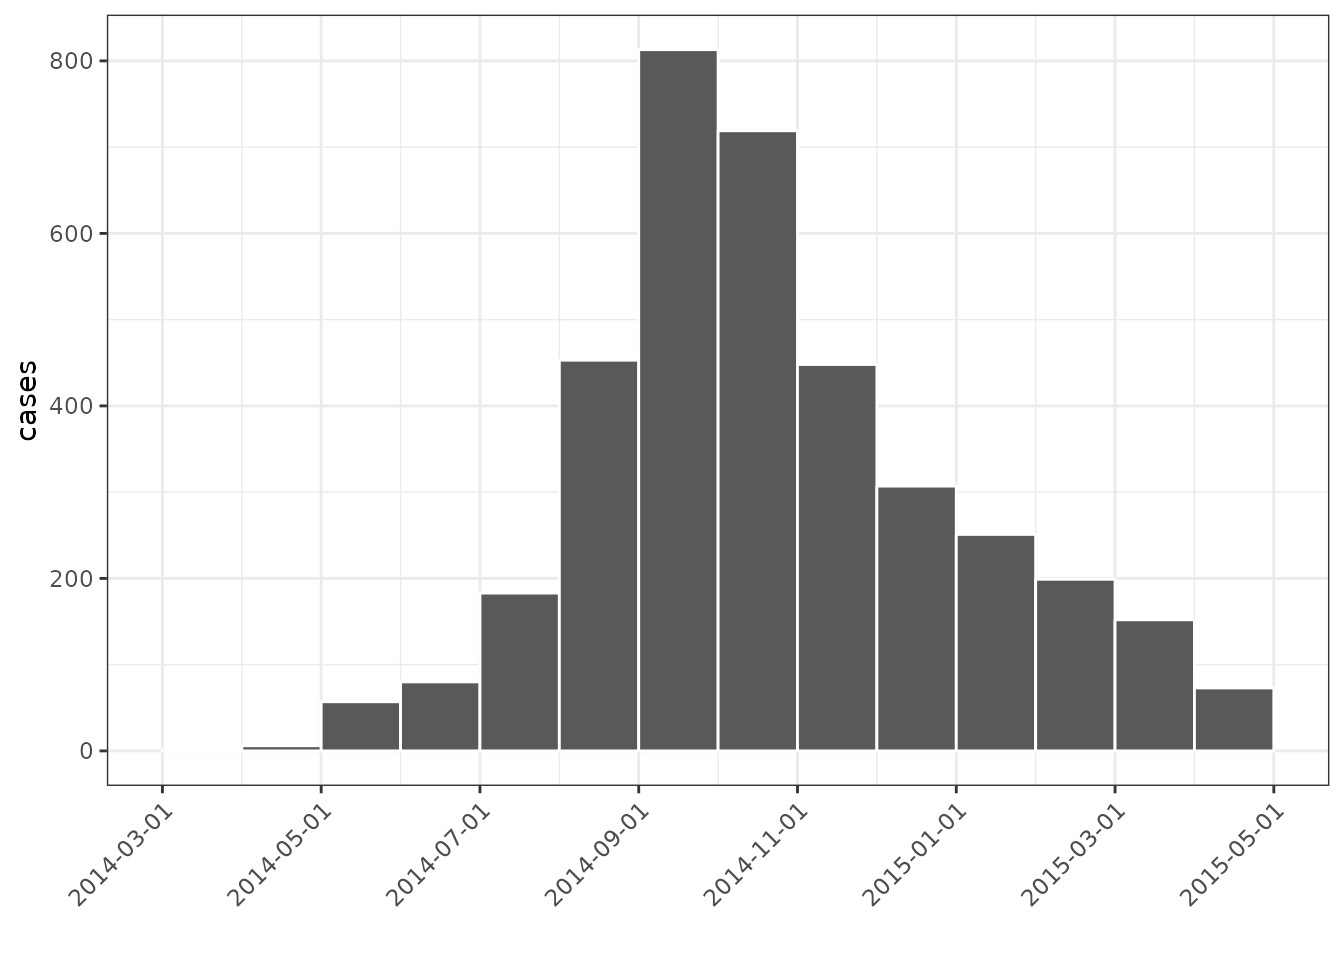
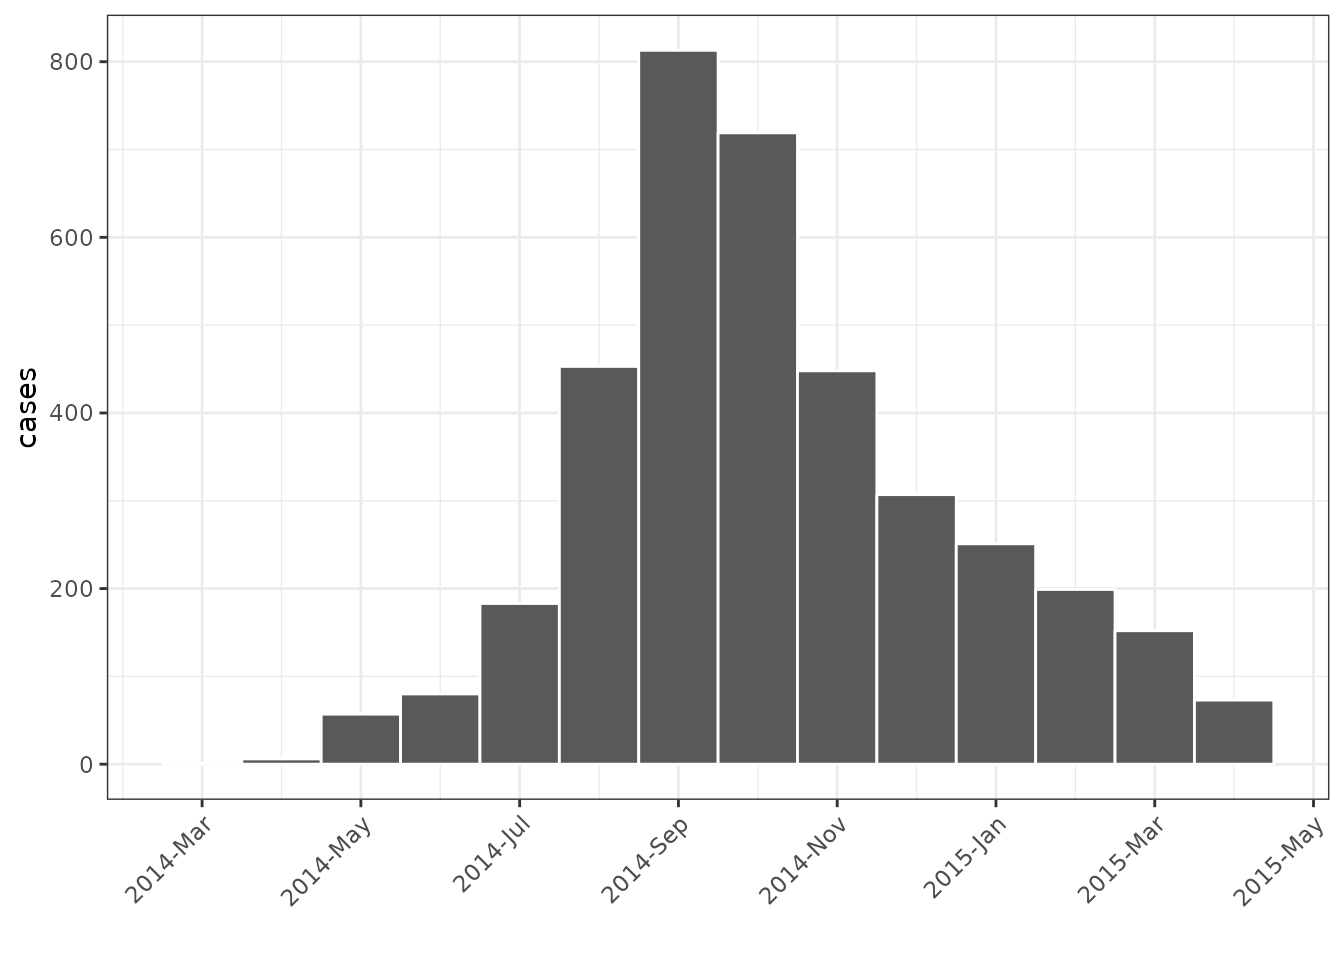
Deploying to gh-pages from @ reconverse/grates@2f42064d4d7478e52ee8e54aa3b728b5a3197bc8 🚀

diff --git a/dev/articles/grates.html b/dev/articles/grates.html
@@ -407,7 +407,7 @@ is different to that of the yearweek, yearmonth, yearquarter and year
 scales where labels are centred by default. To obtain centred labels you
 must explicitly set the format to NULL in the scale:</p>
 <div class="sourceCode" id="cb11"><pre class="downlit sourceCode r">
-<code class="sourceCode R"><span><span class="va">month_plot</span> <span class="op">+</span> <span class="fu"><a href="../reference/scale_x_grates_yearmonth.html">scale_x_grates_yearmonth</a></span><span class="op">(</span>format <span class="op">=</span> <span class="st">"%Y-%m-%d"</span><span class="op">)</span></span></code></pre></div>
+<code class="sourceCode R"><span><span class="va">month_plot</span> <span class="op">+</span> <span class="fu"><a href="../reference/scale_x_grates_yearmonth.html">scale_x_grates_yearmonth</a></span><span class="op">(</span>format <span class="op">=</span> <span class="cn">NULL</span><span class="op">)</span></span></code></pre></div>
 <p><img src="grates_files/figure-html/unnamed-chunk-8-1.png" width="672" style="display: block; margin: auto;"></p>
 </div>
 </div>
